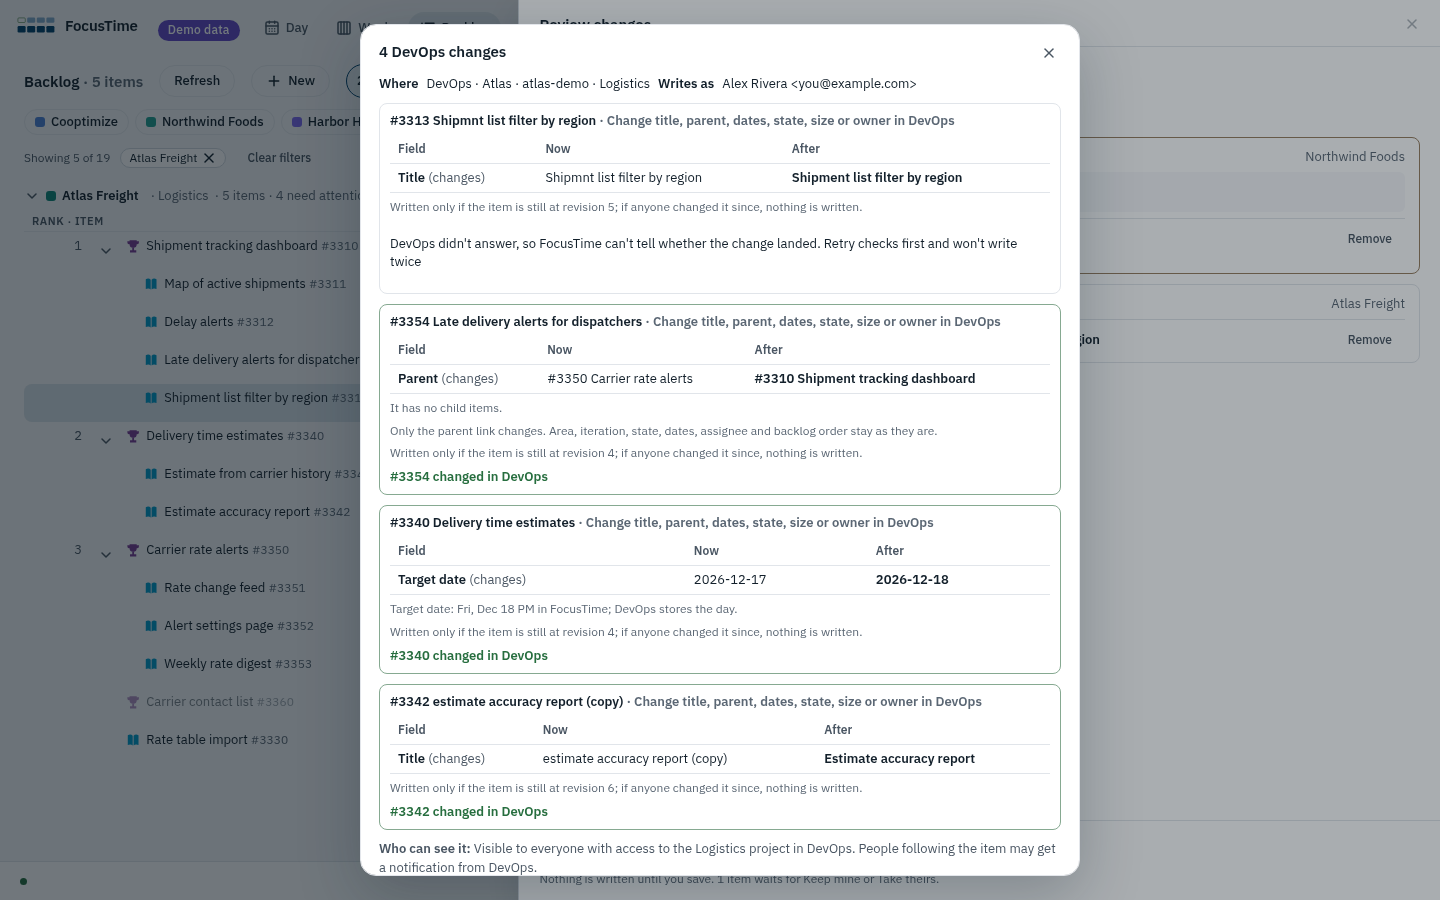
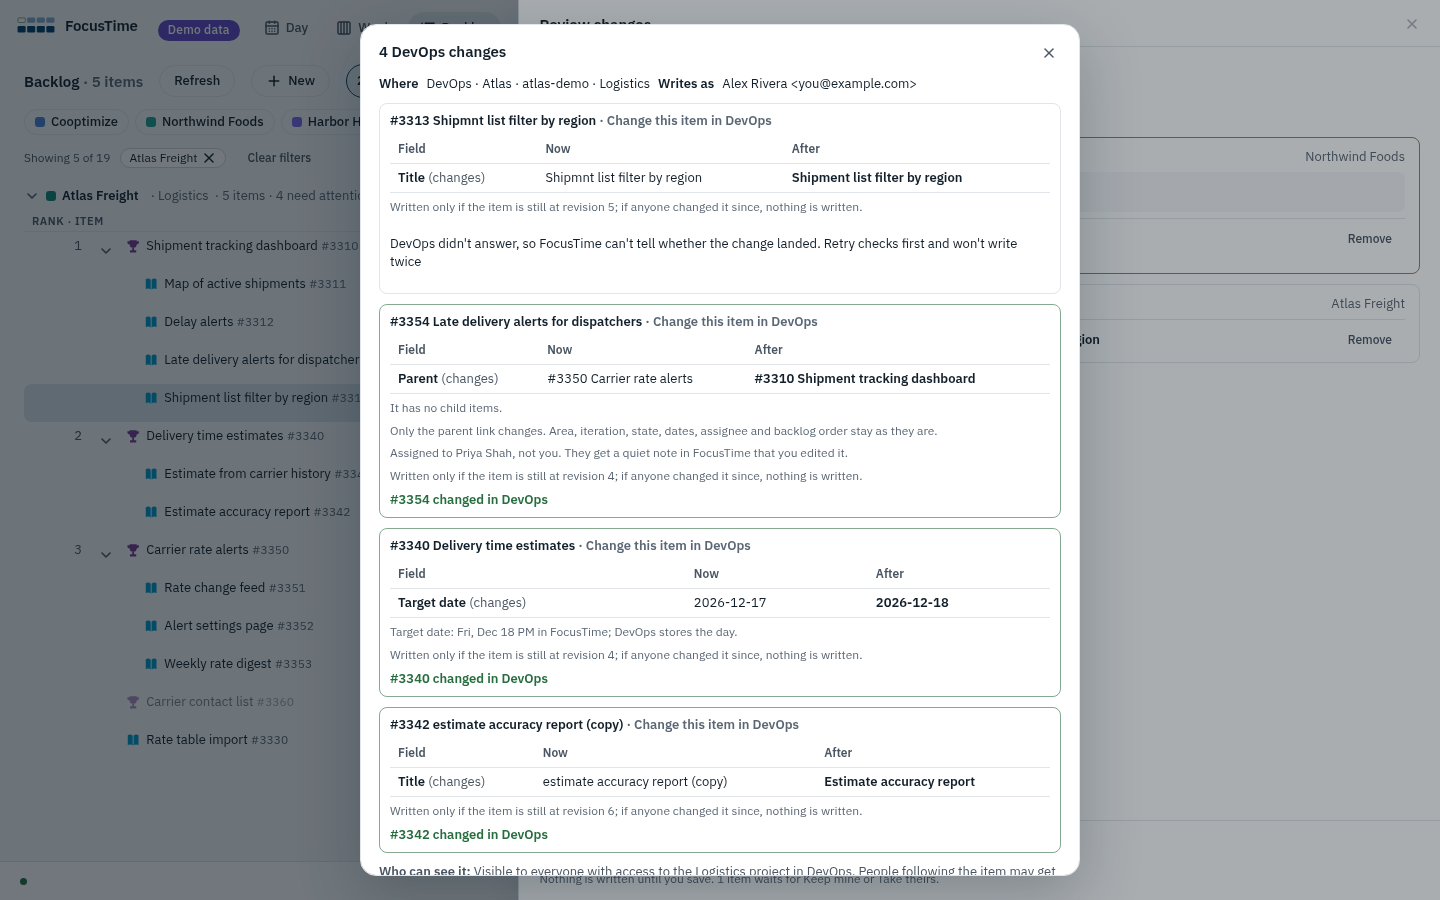
ED-2: the hands-on review's fixes, both reviews recorded, and the after screenshots
ED-2's bulk actions keep the rows ticked; the staged line goes once the change set shrinks; Review's foot and its
saved list say what is saved (a renamed item by its new title); the write's line no longer lists fields it didn't
change; rename puts the caret at the end; a title edit lost to a click elsewhere is said.

Claude-Session: https://claude.ai/code/session_01MZF2GrQ5GJcPQzpEKV4Ldh

Changed region(s): [[0.25, 0.4978, 0.7188, 0.9956], [0.5, 0.3422, 0.6875, 0.3733], [0.4688, 0.1244, 0.6562, 0.1556]]

diff --git a/e2e/ed2-grid.test.ts b/e2e/ed2-grid.test.ts
@@ -182,6 +182,9 @@ describe.skipIf(!CHROMIUM)("ED-2 rename, move and bulk edit in Backlog's Grid (b
     await page.getByRole("combobox", { name: "Assign 3 items to" }).fill("priya");
     await page.keyboard.press("Enter");
     await expect.poll(() => page.locator(".bl-result").first().textContent()).toContain("Assign to Priya Shah: staged 3, skipped 0. Nothing is written until you save.");
+    // The three stay ticked for a next action (review 1).
+    await expect(bar.locator("strong").textContent()).resolves.toBe("3 selected");
+    await page.getByRole("button", { name: "Clear", exact: true }).click();
     // A mixed selection (a feature and a story): Move to… says why it can't; State… lists only what both types take.
     await row(page, "Carrier rate alerts").getByRole("checkbox").check({ force: true });
     await row(page, "Alert settings page").getByRole("checkbox").check({ force: true });
@@ -208,8 +211,8 @@ describe.skipIf(!CHROMIUM)("ED-2 rename, move and bulk edit in Backlog's Grid (b
     await expect.poll(() => page.locator(".bl-result").first().textContent()).toContain("Size 5: staged 1, skipped 1. Nothing is written until you save.");
     await page.locator(".bl-result summary").click();
     await expect(page.locator(".bl-result li").textContent()).resolves.toContain("Feature has no size in Logistics's process");
-    // The skipped row stays ticked; take the size back so the count below is the grooming's own.
-    await expect(bar.locator("strong").textContent()).resolves.toBe("1 selected");
+    // The rows stay ticked for the next action (review 1); take the size back so the count below is the grooming's own.
+    await expect(bar.locator("strong").textContent()).resolves.toBe("2 selected");
     await call(page, "ahead.unstage", { clientKey: "Atlas", itemId: 3352, field: "size" });
     await page.getByRole("button", { name: "Clear", exact: true }).click();
     await page.getByRole("button", { name: "Refresh" }).first().click();
@@ -238,6 +241,9 @@ describe.skipIf(!CHROMIUM)("ED-2 rename, move and bulk edit in Backlog's Grid (b
     expect(entries.find((e) => e.itemId === 3313)!.after).toEqual({ Title: "Shipment list filter by region" });
 
     // --- Undo one from the saved list: the old title comes back.
+    // A saved rename is listed by its new title, and the foot no longer says nothing is written.
+    await expect(rv.locator(".ah-landed li", { hasText: "#3342 Estimate accuracy report" }).count()).resolves.toBe(1);
+    await expect(rv.locator(".ah-review-note").textContent()).resolves.toContain("Nothing is waiting to be saved.");
     await rv.getByRole("button", { name: "Undo #3342 estimate accuracy report (copy)" }).click();
     await confirmAll(page);
     await expect.poll(async () => (await log(page)).some((e) => e.op === "undo_fields" && e.itemId === 3342 && e.status === "confirmed"), { timeout: 30_000 }).toBe(true);

diff --git a/ui/ahead/Bulk.tsx b/ui/ahead/Bulk.tsx
@@ -7,7 +7,7 @@
 // reasons: Assign to… (the client's own DevOps people, the Grid's picker), State… (the states every ticked row's type
 // takes; where types differ, the rest are listed with the rows they fit), Size… and Move to… (ED-1's picker; only
 // when the ticked rows are one level in one client, and it says so otherwise).
-import { useMemo, useRef, useState } from "react";
+import { useEffect, useMemo, useRef, useState } from "react";
 import type { WeekPlanState } from "../../actions/types.ts";
 import type { StagedChange } from "../../plan/ahead-edit.ts";
 import { bulkMoveBlock, bulkSummary, commonStates, nextMonday, type BulkOp } from "../../plan/backlog.ts";
@@ -45,6 +45,14 @@ export function BulkBar({ chosen, titleOf, select, onChanged }: { chosen: Row[];
   // ED-2: which of the four pickers is open, anchored to its button; and why one can't open (said in the bar).
   const [pop, setPop] = useState<{ kind: "assign" | "state" | "size" | "parent"; at: HTMLElement } | null>(null);
   const [why, setWhy] = useState<string | null>(null);
+  // The line about what was staged goes once the change set shrinks (saved, removed or discarded): it would no
+  // longer be true (review 1).
+  const pendingN = a.load.changes.length;
+  const lastN = useRef(pendingN);
+  useEffect(() => {
+    if (pendingN < lastN.current) setResult(null);
+    lastN.current = pendingN;
+  }, [pendingN]);
   const oneClient = new Set(chosen.map((r) => r.clientKey)).size === 1;
   const moveBlock = bulkMoveBlock(chosen.map((r) => ({ clientKey: r.clientKey, rung: r.item.rung })));
   const assignBlock = oneClient ? null : "Assign to… needs rows from one client: each client has its own people";
@@ -89,7 +97,9 @@ export function BulkBar({ chosen, titleOf, select, onChanged }: { chosen: Row[];
       }
       a.setChanges(r.changes);
       setResult({ text: bulkSummary(op, r.staged.length, r.skipped.length), skipped: r.skipped });
-      select(r.skipped.map((s) => `${s.clientKey}:${s.itemId}`));
+      // ED-2's four keep the rows ticked, so an owner and then a size go on the same rows (review 1); the older
+      // actions leave only the skipped rows ticked, as before.
+      if (!(op.kind === "assign" || op.kind === "state" || op.kind === "size" || op.kind === "parent")) select(r.skipped.map((s) => `${s.clientKey}:${s.itemId}`));
       setDateFor(null);
       setWhy(null);
       return null;

diff --git a/ui/ahead/GridEdits.tsx b/ui/ahead/GridEdits.tsx
@@ -55,8 +55,10 @@ export function RenameBox({ r, done, say }: { r: Row; done: (step: 0 | 1 | -1) =
   const box = useRef<HTMLInputElement>(null);
   const closing = useRef(false);
   useEffect(() => {
-    box.current?.focus();
-    box.current?.select();
+    // The caret at the end, nothing selected: most renames fix a word, not the whole title (review 1).
+    const el = box.current;
+    el?.focus();
+    el?.setSelectionRange(el.value.length, el.value.length);
   }, []);
   // A refusal from the server: the box is enabled again by then, so focus goes back to it (review 2).
   useEffect(() => {
@@ -100,7 +102,12 @@ export function RenameBox({ r, done, say }: { r: Row; done: (step: 0 | 1 | -1) =
           else if (e.key === "Escape") (e.preventDefault(), (closing.current = true), done(0));
           else if (e.key === "Tab") (e.preventDefault(), void save(e.shiftKey ? -1 : 1));
         }}
-        onBlur={() => !closing.current && !busy && done(0)}
+        onBlur={() => {
+          if (closing.current || busy) return;
+          // A click elsewhere cancels, as the other cells' editors do; typed words that go with it are said (review 1).
+          if (text.replace(/\s+/g, " ").trim() !== r.item.title) say?.(`Title of #${r.item.id} not changed. Enter keeps an edit; a click elsewhere cancels it.`);
+          done(0);
+        }}
       />
       {why && (
         <span id={`ah-rename-why-${r.item.id}`} className="ah-rename-why" role="alert">

diff --git a/ui/ahead/Ahead.tsx b/ui/ahead/Ahead.tsx
@@ -758,7 +758,8 @@ function Review({ onClose, onDone }: { onClose: () => void; onDone: () => void }
               <ul>
                 {landed.map((e) => (
                   <li key={e.id} className={`wl-${e.status}`}>
-                    {e.op === "undo_fields" ? "Undone: " : ""}#{e.itemId} {e.title}{" "}
+                    {/* A saved rename is listed by its new title (review 1). */}
+                    {e.op === "undo_fields" ? "Undone: " : ""}#{e.itemId} {e.status === "confirmed" ? (e.after.Title ?? e.title) : e.title}{" "}
                     <span className="muted">
                       {Object.keys(e.after).join(", ")} · {e.status === "confirmed" ? "in DevOps" : e.status === "refused" ? "not written" : e.status === "failed" ? "not written: DevOps refused it" : "not confirmed yet"}
                     </span>
@@ -802,7 +803,7 @@ function Review({ onClose, onDone }: { onClose: () => void; onDone: () => void }
             )}
           </div>
           <p className="muted ah-review-note">
-            Nothing is written until you save.{conflicts > 0 ? ` ${plural(conflicts, "item waits", "items wait")} for Keep mine or Take theirs.` : ""}
+            {items.length === 0 && landed.length > 0 ? "Nothing is waiting to be saved." : "Nothing is written until you save."}{conflicts > 0 ? ` ${plural(conflicts, "item waits", "items wait")} for Keep mine or Take theirs.` : ""}
           </p>
         </footer>
       </aside>

diff --git a/actions/devops-write-actions.ts b/actions/devops-write-actions.ts
@@ -219,7 +219,7 @@ const SUMMARY: Record<WriteOp, string> = {
   undo_state: "Undo: put the state back", undo_comment: "Undo: delete the comment FocusTime added", undo_create: "Undo: set the created item to Removed", undo_target_date: "Undo: put the target date back",
   description: "Change a DevOps item's description", undo_description: "Undo: put the description back",
   assign: "Assign a DevOps story or feature to you", undo_assign: "Undo: give it back to who had it",
-  fields: "Change title, parent, dates, state, size or owner in DevOps", undo_fields: "Undo: put the title, parent, dates, state, size and owner back",
+  fields: "Change this item in DevOps", undo_fields: "Undo: put what this change set changed back",
   feedback: "Send feedback to the FocusTime backlog",
   comment_edit: "Edit your comment on a DevOps item", undo_comment_edit: "Undo: put your comment's earlier text back",
   comment_delete: "Delete your comment on a DevOps item", undo_comment_delete: "Undo: post your deleted comment's text again",

diff --git a/actions/devops-write.test.ts b/actions/devops-write.test.ts
@@ -835,7 +835,7 @@ describe("AH-1: Ahead's change set as one fields write per item (D657 to D660)",
     await stage(437, "start", "2026-11-16", null, "PM");
     await stage(437, "target", "2026-12-11", null, "AM");
     const p = await s.preview({ kind: "fields", itemId: 437 });
-    expect(p.summary).toBe("Change title, parent, dates, state, size or owner in DevOps");
+    expect(p.summary).toBe("Change this item in DevOps");
     expect(p.fields).toEqual(expect.arrayContaining([{ label: "Start date", before: null, after: "2026-11-16", changed: true }, { label: "Target date", before: null, after: "2026-12-11", changed: true }]));
     expect(p.notes.join(" ")).toContain("Mon, Nov 16 PM in FocusTime");
     const r = await s.confirm(p);

diff --git a/docs/decisions.md b/docs/decisions.md
@@ -2796,4 +2796,5 @@ Unnumbered until merge.
 | - | Done | Description and acceptance criteria stay on the story card, with ED-1's preview and Confirm. Backlog on the phone stays read only (no rename, move or bulk there). |
 | - | Done | The demo: Atlas Freight gets a story under the wrong feature and two titles worth fixing, at the bottom of its backlog so no rank changes; features have one state stories don't (On hold) so State… on mixed types shows; its DevOps puts the whole item back when an update is refused and can lose one write's answer (`loseNextWrite`) so Retry can be seen. |
 | - | Done | CLAUDE.md: the `fields` rule sentence names the title and the parent link (by ED-1's rules, never the order), and the glossary rows Backlog, Change set and Export follow. No other rule changed. |
-
+| - | Done | Review 2 (the diff, hunting a write before Save, an order field, a move across clients, a rule applied differently from the card, a lost staged change, a wrong bulk row, a hard-coded name, a pointer-only drag, a real name): none of the nine found. Fixed, each with a check: bulk Move to… took rows of several clients on the server (only the bar held it to one; an id repeated in another client would have been a parent nobody picked), now refused; a bulk value DevOps already has was counted as staged, now skipped with why; the preview said whose item it is twice; the rename box lost focus after a refusal; letting go after Esc in a drag was a click on the title. |
+| - | Done | Review 1 (a lead grooming the demo's backlog, the app and the why only): all four tasks done; F2, M with type to filter, the drag's "Move under" and Review's before and after worked well; nothing took more steps than opening each card. Fixed: ED-2's bulk actions keep the rows ticked, so an owner and then a size go on the same rows (16 steps to about 10); the "staged" line stayed after saving, and Review's foot said "Nothing is written until you save" under the saved list; the saved list named a renamed item by its old title; the write's line claimed "title, parent, dates, state, size or owner" whatever it changed (now "Change this item in DevOps"); rename selected the whole title (the caret now sits at the end); a title edit lost to a click elsewhere is now said. Left as open questions: a click elsewhere cancels a rename, staged owner and size show a dot where title and parent show words, the drag needs the parents on screen, a row dropped on a feature shows where its rank puts it among that feature's stories, Enter on a title, and the count of changes spans every client. |

diff --git a/docs/open-questions.md b/docs/open-questions.md
@@ -1110,4 +1110,8 @@ From the IT review (TD-1):
 - Renaming in the Grid writes the title only; the card's Edit can fix the title and the description in one preview. Two ways to do one thing: keep both?
 - The Grid's hover buttons (Rename, New under, the menu) take room in the Item cell while a row is pointed at. On narrow windows the title gets short. Move Rename into the menu only?
 - The demo's features now have a state stories don't (On hold). It exists only to show State… on mixed types.
+- From review 1, left: a click elsewhere cancels a rename (as the other cells' editors do) and the typed words go; should it keep them instead? A staged title or move says so in words, a staged date, owner, state or size only with the cell's tint and dot: give all of them words? A cell's editor says Save where it only stages. Enter on a title cell opens nothing (it folds a row with children); double-click doesn't rename. Esc in Review closes it only with focus inside. The bulk bar is a long way from a row by Tab. Move…'s popover sits over the rows above its own.
+- From review 1: after a drop, the story shows among its new parent's stories where its own rank puts it, which can be first. That is its true place, but it can read as a reorder for a moment. Say "by rank" there?
+- From review 1 (not ED-2's): "N changes to save" and Save span every client whatever the client filter shows, and the demo starts with three seeded changes.
+- From review 2, left: an item with two parent links in DevOps whose first is the staged parent is skipped as already there (the card's Move… would repair it); a title that differs only by inner spaces is announced as staged but there is nothing to stage.
 

diff --git a/docs/design/wording.md b/docs/design/wording.md
@@ -278,4 +278,6 @@ Backlog lists the level chosen in Filter › Levels, in that level's own rank or
 - A button that can't open for these rows says why when pressed: "Move to… needs rows at one level, so one parent fits them all", "Move to… needs rows from one client. A move never crosses clients", "Assign to… needs rows from one client: each client has its own people".
 - State… on mixed types: "The selection has 2 types (Feature, User Story). Only states every row's type takes can be set at once. Not for every row:" then "On hold fits 1 of 2: Feature", and "Select only those rows to set one of these."
 - Review's rows: **Title** and **Parent**, before → after ("#3350 Carrier rate alerts → #3310 Shipment tracking dashboard", "No parent"). Saved: "#3313 <title> Title · in DevOps", "not confirmed yet", "not written".
-- The preview's line for a change set write: "Change title, parent, dates, state, size or owner in DevOps".
+- The preview's line for a change set write: "Change this item in DevOps" (it listed dates, state, size and owner before; the rows under it say which fields); its undo: "Undo: put what this change set changed back".
+- A title edit thrown away by a click elsewhere is said to a screen reader: "Title of #3313 not changed. Enter keeps an edit; a click elsewhere cancels it."
+- Review's foot once everything is saved: "Nothing is waiting to be saved."
